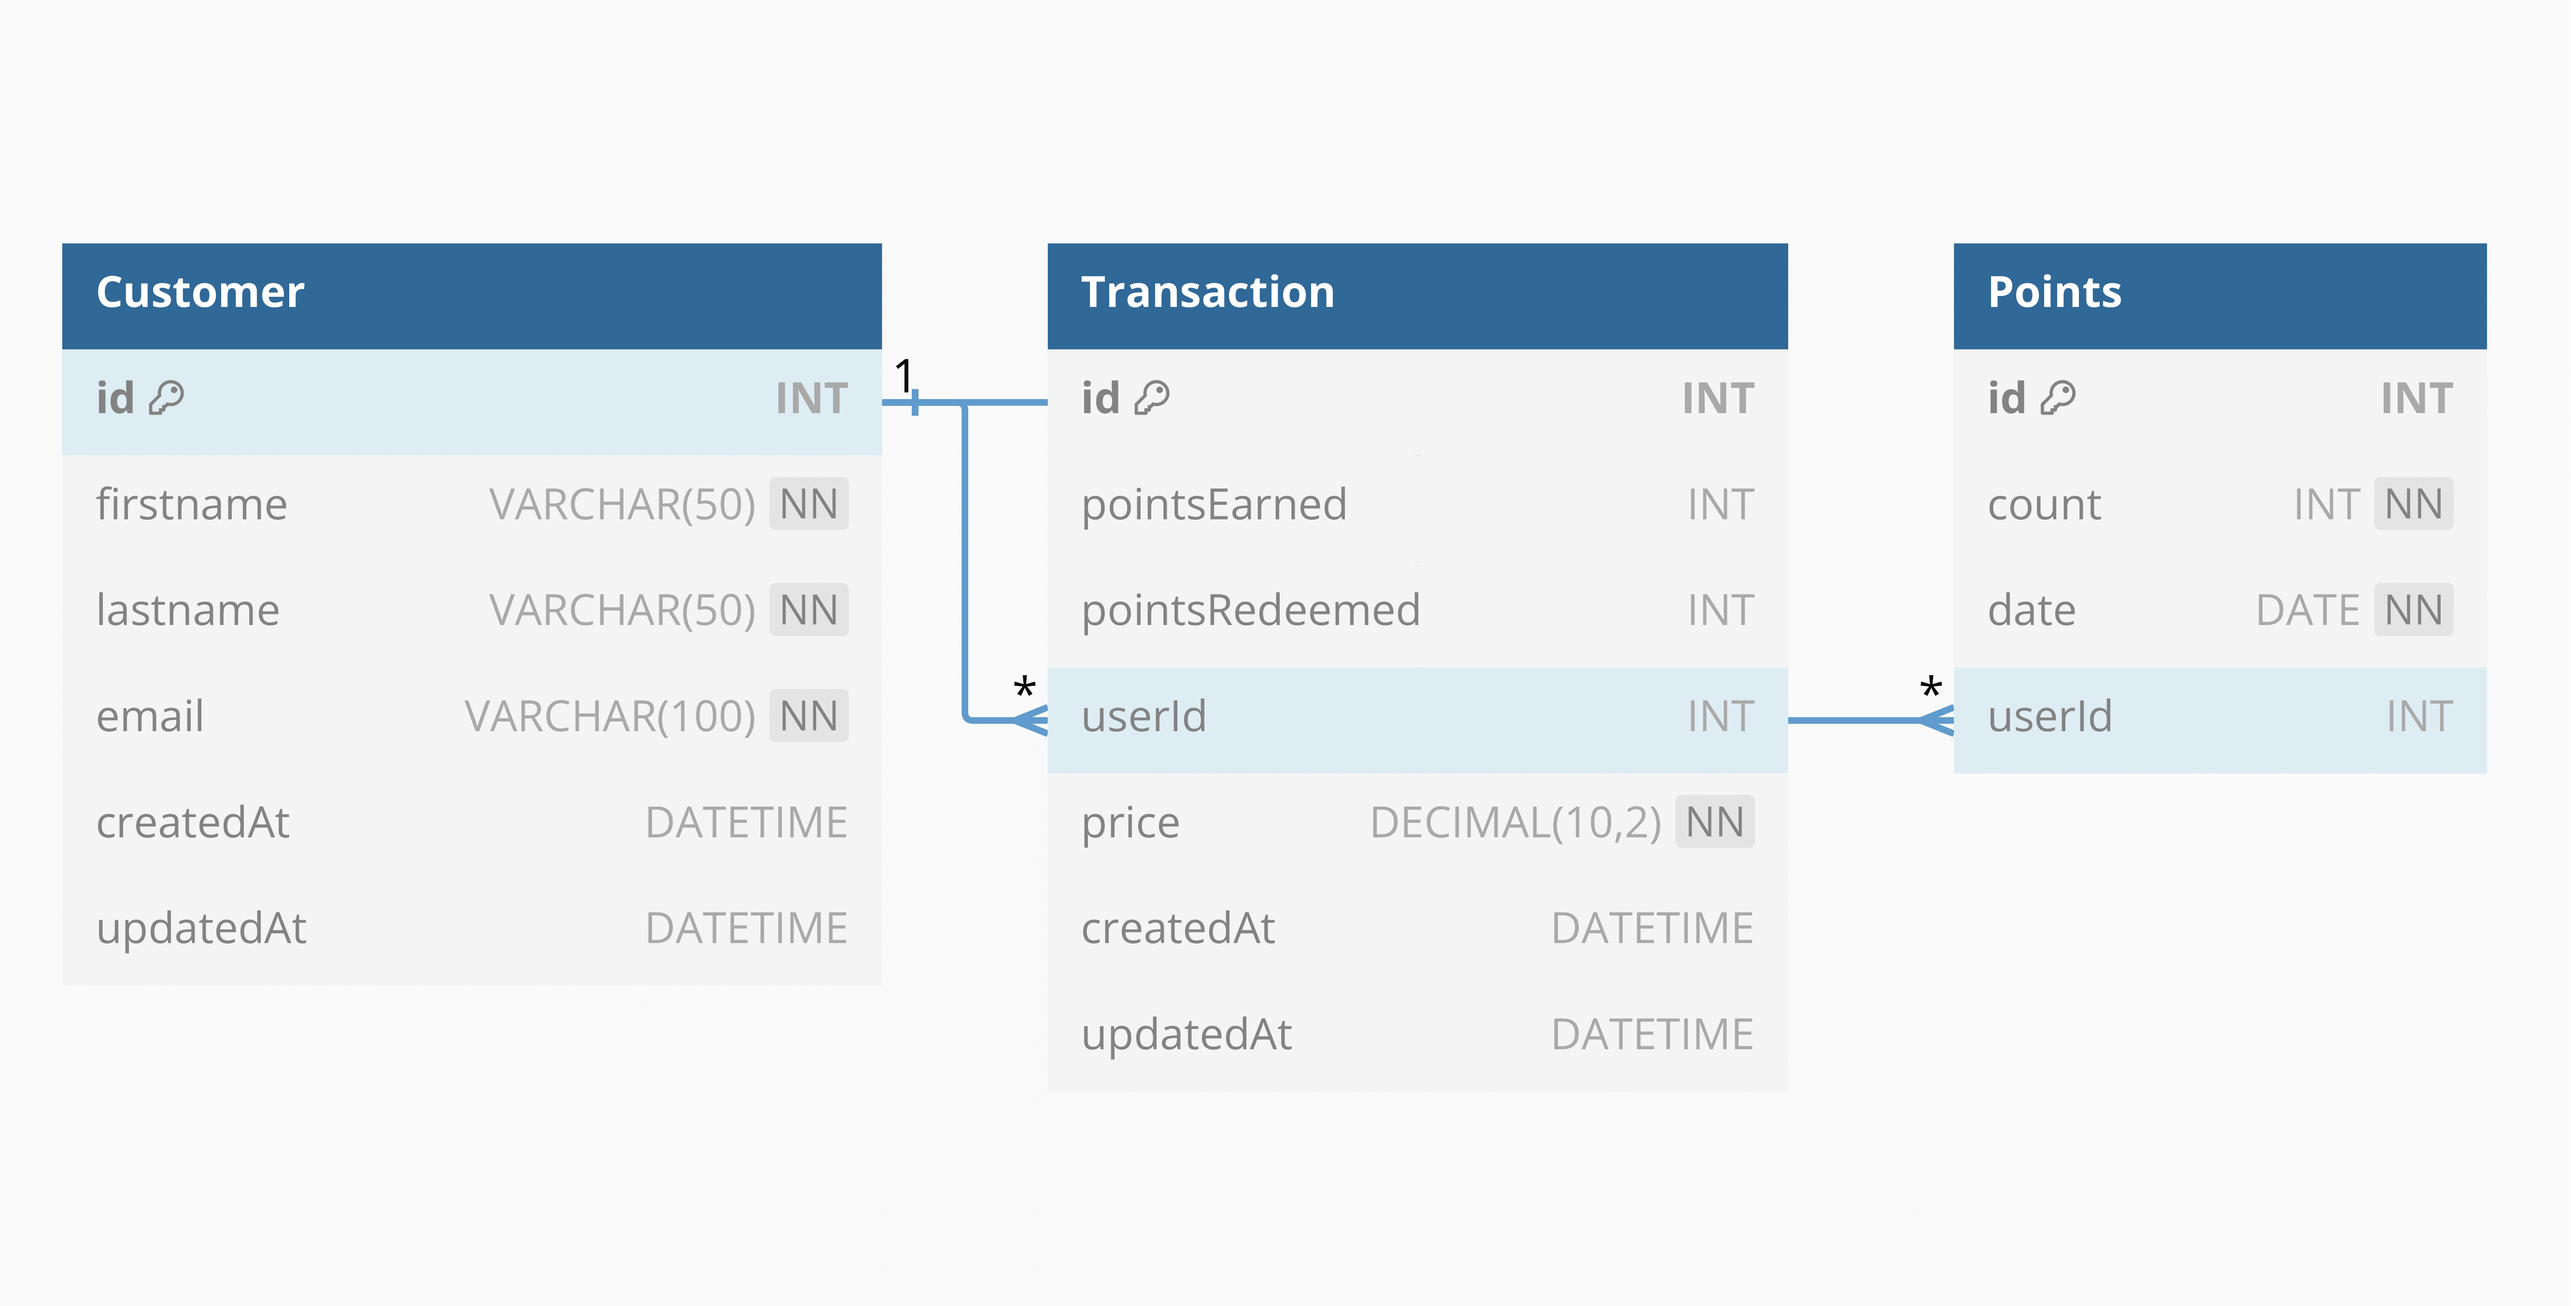
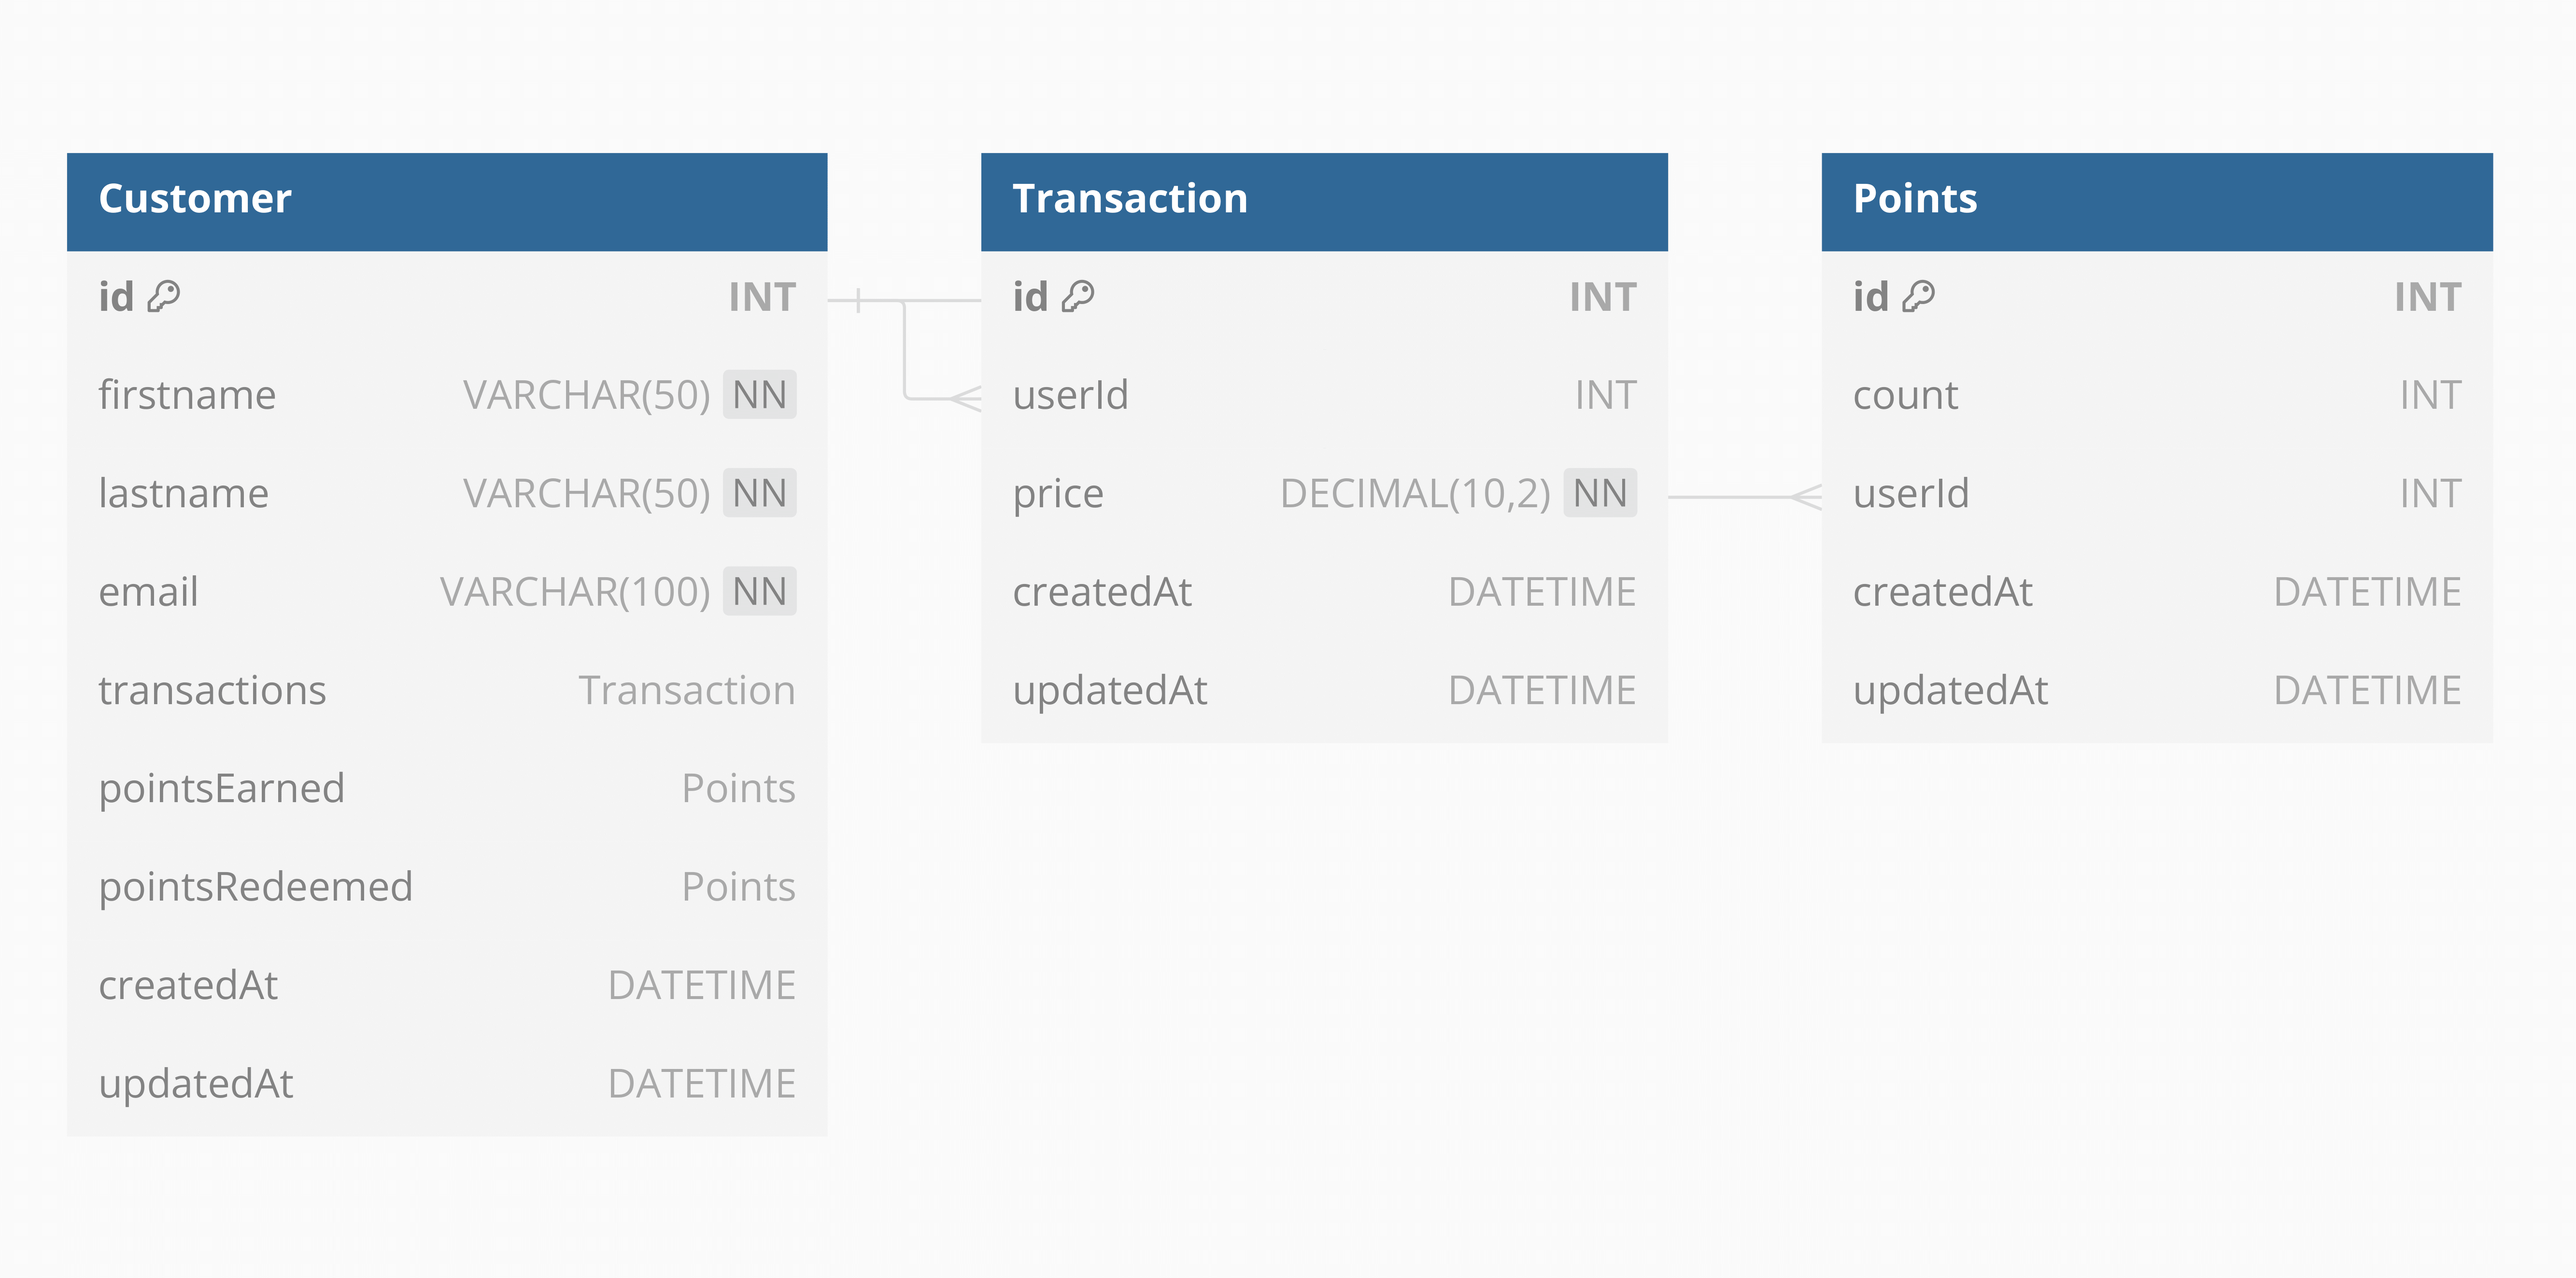
update README file

diff --git a/README.md b/README.md
@@ -10,7 +10,7 @@ The project consists of frontend and backend components:
 
 - **Frontend**: The user interface is developed using React.js with Typescript and MaterialUI for a responsive and intuitive dashboard. It interacts with the backend via RESTful APIs.
 
-  - **Dashboard**: Displays customer information, points balance. It also allows the Gunther to see how many points has been earned and redeemed.
+  - **Dashboard**: Displays customer information, points balance. It also allows Gunther to see how many points has been earned and redeemed.
 
   - **Customer Details**: Shows the customer's name, email, and total points earned. It also lists the transactions made by the customer.
 
@@ -36,7 +36,7 @@ The data model diagram illustrates the database schema for the reward system. It
 
 ![image](./public/class-diagram.png)
 
-This diagram illustrates the class structure of the reward system. The Customer class represents the customer entity, which has attributes such as id, name, email, and points. The Transaction class represents the transaction entity, which has attributes such as id, amount, date, and earned points. The Points class represents the points entity, which has attributes such as id, and count. The CustomerService class provides methods to manage customer data, while the TransactionService class handles transaction-related operations and points class manages the points data.
+This diagram illustrates the class structure of the reward system. The Customer class represents the customer entity, which has attributes such as id, name, email, and points. The Transaction class represents the transaction entity, which has attributes such as id, price, date. The Points class represents the points entity, which has attributes such as id, and count. The CustomerService class provides methods to manage customer data, while the TransactionService class handles transaction-related operations and points class manages the points data.
 
 ## Use Case Diagram
 
